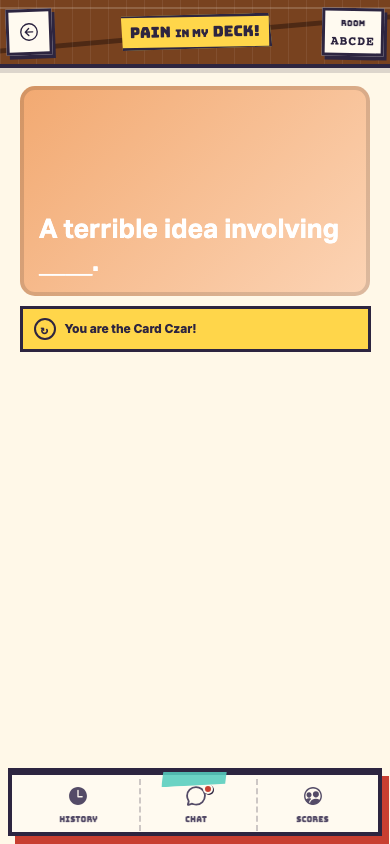
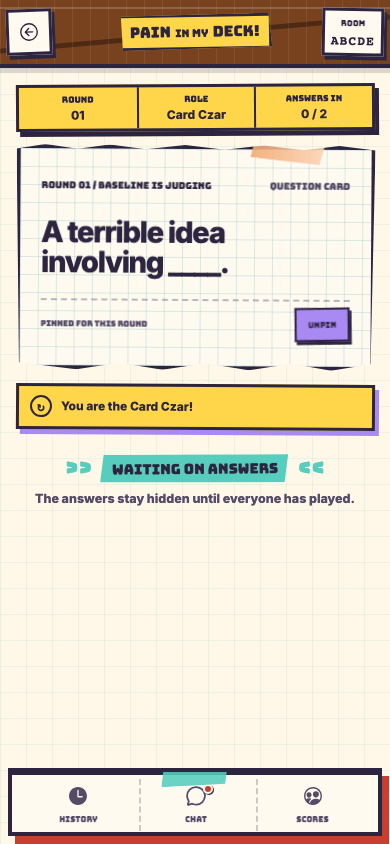
test(ui): cover refreshed gameplay states

diff --git a/src/stories/AppScreens.stories.ts b/src/stories/AppScreens.stories.ts
@@ -2,6 +2,7 @@ import type { Meta, StoryObj } from '@storybook/vue3-vite';
 import { expect, userEvent, waitFor, within } from 'storybook/test';
 
 import App from '@/App.vue';
+import { storyActions } from '../../.storybook/gameStore';
 import { gameScenarios, ROOM_ID } from './fixtures/gameScenarios';
 
 const lobbyRoute = `/join/${ROOM_ID}`;
@@ -13,6 +14,7 @@ const meta = {
   component: App,
   tags: ['autodocs', 'test'],
   parameters: {
+    a11y: { test: 'error' },
     docs: {
       description: {
         component:
@@ -107,12 +109,51 @@ export const ChatOpen: Story = {
   play: async ({ canvasElement }) => {
     const canvas = await openStatusPanel(canvasElement, 1);
     await waitFor(() => expect(canvas.getByText('This round was made for me.')).toBeVisible());
+    await userEvent.type(canvas.getByRole('textbox', { name: 'Chat message' }), 'Deal me in.');
+    await userEvent.click(canvas.getByRole('button', { name: 'Send message' }));
+    await expect(storyActions.sendChat).toHaveBeenCalledWith('Deal me in.');
   },
 };
 
 export const PlayerCollecting: Story = {
   name: 'Game / player collecting',
   parameters: { route: gameRoute, game: gameScenarios.playerCollecting },
+  play: async ({ canvasElement }) => {
+    const canvas = within(canvasElement);
+    await userEvent.click(
+      canvas.getByRole('button', {
+        name: 'Play answer: An aggressively enthusiastic thumbs-up.',
+      }),
+    );
+    await expect(storyActions.submitCard).toHaveBeenCalledWith('answer-1');
+  },
+};
+
+export const PlayerActionPending: Story = {
+  name: 'Game / player card pending',
+  parameters: { route: gameRoute, game: gameScenarios.playerActionPending },
+  play: async ({ canvasElement }) => {
+    const canvas = within(canvasElement);
+    await expect(
+      canvas.getByRole('button', {
+        name: 'Play answer: An aggressively enthusiastic thumbs-up.',
+      }),
+    ).toBeDisabled();
+  },
+};
+
+export const PlayerRedraw: Story = {
+  name: 'Game / redraw control',
+  parameters: { route: gameRoute, game: gameScenarios.playerCollecting },
+  play: async ({ canvasElement }) => {
+    const canvas = within(canvasElement);
+    const redraw = canvas.getAllByRole('button', { name: 'Redraw card' })[0];
+    redraw.focus();
+    await expect(redraw).toHaveFocus();
+    await expect(redraw).toBeVisible();
+    await userEvent.keyboard('{Enter}');
+    await expect(storyActions.redrawCard).toHaveBeenCalledWith('answer-1');
+  },
 };
 
 export const BlankCardEditing: Story = {
@@ -124,12 +165,22 @@ export const BlankCardEditing: Story = {
     await userEvent.click(blankCard);
     await userEvent.type(blankCard, 'A suspicious number of tiny cowboy hats');
     await expect(canvas.findByText('39/60')).resolves.toBeVisible();
+    await userEvent.click(canvas.getByRole('button', { name: 'Play blank answer' }));
+    await expect(storyActions.submitBlank).toHaveBeenCalledWith(
+      'blank-1',
+      'A suspicious number of tiny cowboy hats',
+    );
   },
 };
 
 export const PlayerSubmitted: Story = {
   name: 'Game / player submitted',
   parameters: { route: gameRoute, game: gameScenarios.playerSubmitted },
+  play: async ({ canvasElement }) => {
+    const canvas = within(canvasElement);
+    await userEvent.click(canvas.getByRole('button', { name: 'Unpin question' }));
+    await expect(canvas.getByRole('button', { name: 'Pin question' })).toBeVisible();
+  },
 };
 
 export const PlayerReconnecting: Story = {
@@ -150,11 +201,41 @@ export const CzarCollecting: Story = {
 export const CzarJudging: Story = {
   name: 'Game / Czar judging',
   parameters: { route: gameRoute, game: gameScenarios.czarJudging },
+  play: async ({ canvasElement }) => {
+    const canvas = within(canvasElement);
+    await userEvent.click(
+      canvas.getByRole('button', {
+        name: 'Choose winner: A group chat that should have stayed private.',
+      }),
+    );
+    await expect(storyActions.chooseWinner).toHaveBeenCalledWith('played-rowan');
+  },
 };
 
 export const WinnerReveal: Story = {
   name: 'Game / winner reveal',
   parameters: { route: gameRoute, game: gameScenarios.winnerReveal },
+  play: async ({ canvasElement }) => {
+    const canvas = within(canvasElement);
+    await expect(canvas.getByText('Sam wins the round!')).toBeVisible();
+    await expect(canvas.queryByText('Select the winning card!')).not.toBeInTheDocument();
+  },
+};
+
+export const RoundInterstitial: Story = {
+  name: 'Game / round interstitial',
+  parameters: {
+    route: gameRoute,
+    game: gameScenarios.playerCollecting,
+    ui: { interstitial: { title: 'Round 3', subtitle: 'Alex is the Card Czar' } },
+  },
+  play: async ({ canvasElement }) => {
+    const canvas = within(canvasElement);
+    const status = await canvas.findByRole('status');
+    await expect(status).toBeVisible();
+    await expect(within(status).getByRole('heading', { name: 'Round 3' })).toBeVisible();
+    await expect(within(status).getByText('Alex is the Card Czar')).toBeVisible();
+  },
 };
 
 export const HistoryOpen: Story = {

diff --git a/.storybook/gameStore.ts b/.storybook/gameStore.ts
@@ -1,6 +1,7 @@
 import type { ConnectionState, GameSnapshot } from '@/shared/protocol';
 import { useGameStore } from '@/stores/game';
 import { useUiStore, type NotificationOptions } from '@/stores/ui';
+import { fn } from 'storybook/test';
 
 type GameStore = ReturnType<typeof useGameStore>;
 type UiStore = ReturnType<typeof useUiStore>;
@@ -21,12 +22,26 @@ export interface UiStoryFixture {
   interstitial?: UiStore['interstitial'];
 }
 
+/** Observable transport doubles used by interaction stories. */
+export const storyActions = {
+  submitCard: fn(async (cardId: string): Promise<void> => void cardId),
+  submitBlank: fn(async (cardId: string, text: string): Promise<void> => void [cardId, text]),
+  redrawCard: fn(async (cardId: string): Promise<void> => void cardId),
+  chooseWinner: fn(async (cardId: string): Promise<void> => void cardId),
+  sendChat: fn(async (text: string): Promise<void> => void text),
+};
+
+function resetStoryActions(): void {
+  Object.values(storyActions).forEach((action) => action.mockClear());
+}
+
 export function seedStoryStores(
   game: GameStore,
   ui: UiStore,
   fixture?: GameStoryFixture,
   uiFixture?: UiStoryFixture,
 ): void {
+  resetStoryActions();
   game.$reset();
   ui.$reset();
 
@@ -58,11 +73,11 @@ export function stubStoryTransport(game: GameStore): void {
   game.leaveRoom = async () => undefined;
   game.updateSettings = async () => undefined;
   game.startGame = async () => undefined;
-  game.submitCard = async () => undefined;
-  game.submitBlank = async () => undefined;
-  game.redrawCard = async () => undefined;
-  game.chooseWinner = async () => undefined;
-  game.sendChat = async () => undefined;
+  game.submitCard = storyActions.submitCard;
+  game.submitBlank = storyActions.submitBlank;
+  game.redrawCard = storyActions.redrawCard;
+  game.chooseWinner = storyActions.chooseWinner;
+  game.sendChat = storyActions.sendChat;
   game.kickPlayer = async () => undefined;
   game.send = async () => undefined;
 }

diff --git a/src/stories/fixtures/gameScenarios.ts b/src/stories/fixtures/gameScenarios.ts
@@ -182,6 +182,7 @@ function playingFixture(
   options: {
     phase?: 'COLLECTING' | 'JUDGING' | 'REVEAL';
     playedThisTurn?: boolean;
+    cardActionPending?: boolean;
     connectionState?: 'open' | 'reconnecting';
     disconnectedPlayerId?: string;
   } = {},
@@ -228,6 +229,7 @@ function playingFixture(
     }),
     state: {
       connectionState: options.connectionState ?? 'open',
+      cardActionPending: options.cardActionPending ?? false,
     },
   };
 }
@@ -238,6 +240,7 @@ export const gameScenarios = {
   lobbyGuest: lobbyFixture('rowan'),
   lobbyDisconnected: lobbyFixture('alex', { disconnectedPlayerId: 'sam' }),
   playerCollecting: playingFixture('rowan'),
+  playerActionPending: playingFixture('rowan', { cardActionPending: true }),
   playerSubmitted: playingFixture('rowan', { playedThisTurn: true }),
   playerReconnecting: playingFixture('rowan', { connectionState: 'reconnecting' }),
   playerWaitingForReconnect: playingFixture('rowan', { disconnectedPlayerId: 'sam' }),

diff --git a/tests/e2e/visual.spec.ts b/tests/e2e/visual.spec.ts
@@ -266,7 +266,7 @@ test('approved refresh: mobile first-round Czar', async ({ browser }, testInfo) 
     await expect(host.locator('.whiteCard')).toHaveCount(0);
 
     // Keep generated copy deterministic without hiding the redesigned shell.
-    await host.locator('.questionCard').evaluate((element) => {
+    await host.locator('.questionCard__copy').evaluate((element) => {
       element.textContent = 'A terrible idea involving ____.';
     });
     await host.locator('#navbar-info .navbar-info__code').evaluate((element) => {

diff --git a/tests/visual/README.md b/tests/visual/README.md
@@ -1,16 +1,17 @@
 # Visual release-gate baselines
 
-The refresh screenshots capture the approved entry-flow redesign:
+The refresh screenshots capture the approved entry flow and gameplay redesign:
 
 - Home at 390 x 844 and 1280 x 800
 - profile, lobby, and Settings at 390 x 844
-- the first-round Czar state at 390 x 844
+- the refreshed first-round Czar state at 390 x 844
 
-The Czar fixture records the current transitional state: the shared branded
-shell is approved, while the card surface is intentionally still awaiting its
-gameplay redesign. Generated room and question copy are normalized or masked;
-the product UI remains part of the pixel comparison. The gate uses a maximum
-differing-pixel ratio of `0.002` after dynamic regions are excluded.
+The Czar fixture covers the production game shell, round metadata, question
+paper, waiting state, and fixed status dock. Generated room and question copy
+are normalized or masked; the product UI remains part of the pixel comparison.
+The gate uses a maximum differing-pixel ratio of `0.002` after dynamic regions
+are excluded. The broader player, judging, reveal, interstitial, panel, and
+results states are rendered and exercised independently in Storybook.
 
 Baseline changes are deliberately opt-in. After visually reviewing an
 intentional refresh, regenerate only this collection with: